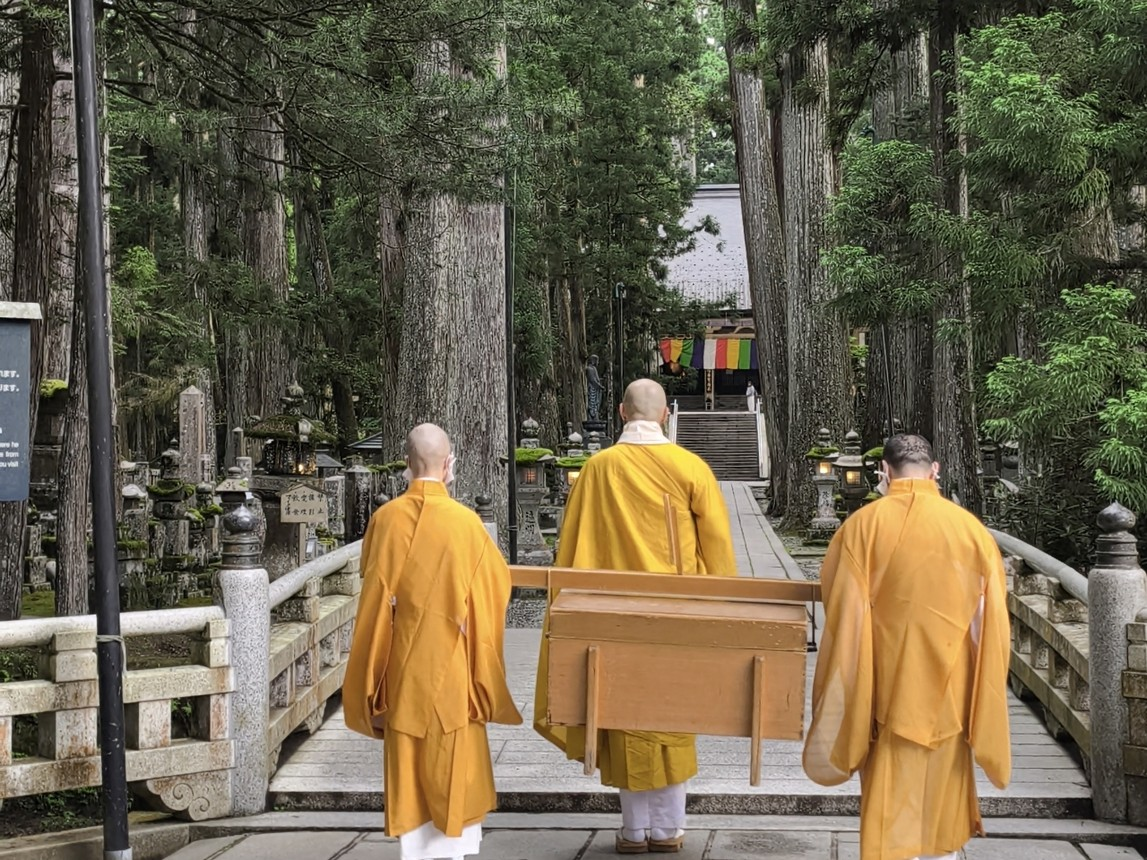
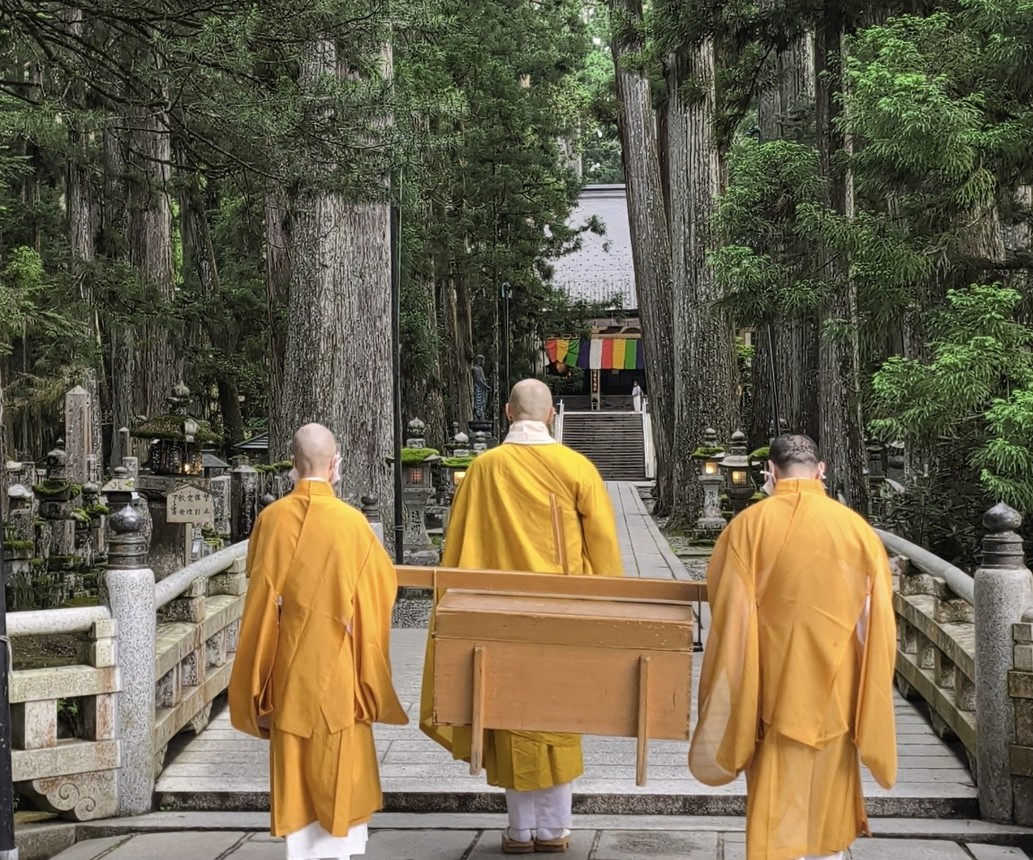
生身供の写真：左端の案内板を切り取る

diff --git a/index.html b/index.html
@@ -705,7 +705,7 @@ footer .f-pv a{text-decoration:underline;text-underline-offset:4px;}
   .interlude{display:block;min-height:0;padding:0;background:var(--ink);}
   .interlude::before{display:none;}
   .il-img{position:relative;inset:auto;}
-  .il-img img{height:auto;aspect-ratio:1014/1288;transform:none !important;}
+  .il-img img{height:auto;aspect-ratio:897/1288;transform:none !important;}
   .il-text{padding:32px var(--gut) 56px;}
   .il-v{font-size:26px;letter-spacing:.14em;text-shadow:none;}
   .il-s{text-shadow:none;}
@@ -963,7 +963,7 @@ main{position:relative;}
 
 <!-- 間奏：千二百年の祈り -->
 <section class="interlude on-dark" aria-label="千二百年の祈り">
-  <div class="il-img"><picture><source media="(max-width:899px)" srcset="images/photos/shojingu-tate.webp" width="1014" height="1288"><img src="images/photos/shojingu.webp" srcset="images/photos/shojingu-960.webp 960w, images/photos/shojingu.webp 1147w" sizes="100vw" alt="奥の院の御廟橋を、お大師さまへのお食事を担いでわたる僧侶たち" width="1147" height="860" loading="lazy" data-px></picture></div>
+  <div class="il-img"><picture><source media="(max-width:899px)" srcset="images/photos/shojingu-tate.webp" width="897" height="1288"><img src="images/photos/shojingu.webp" srcset="images/photos/shojingu-960.webp 960w, images/photos/shojingu.webp 1033w" sizes="100vw" alt="奥の院の御廟橋を、お大師さまへのお食事を担いでわたる僧侶たち" width="1033" height="860" loading="lazy" data-px></picture></div>
   <div class="il-text">
     <p class="il-v rv">千二百年、<br>祈りの絶えない山で。</p>
     <p class="il-s rv rv-d1">奥の院では、いまも毎日二度、<br class="sp-br">お大師さまへお食事が運ばれています。<br>本覚院は、その高野山の真ん中にあります。</p>

diff --git a/shukubo.html b/shukubo.html
@@ -1032,7 +1032,7 @@ footer .f-pv a{text-decoration:underline;text-underline-offset:4px;}
         </div>
       </article>
       <article class="moment">
-        <figure class="rv-img"><img src="images/photos/shojingu.webp" srcset="images/photos/shojingu-960.webp 960w, images/photos/shojingu.webp 1147w" sizes="(max-width: 899px) 100vw, 60vw" alt="奥の院の御廟橋を、お大師さまへのお食事を担いでわたる僧侶たち（生身供）" width="1147" height="860" loading="lazy"></figure>
+        <figure class="rv-img"><img src="images/photos/shojingu.webp" srcset="images/photos/shojingu-960.webp 960w, images/photos/shojingu.webp 1033w" sizes="(max-width: 899px) 100vw, 60vw" alt="奥の院の御廟橋を、お大師さまへのお食事を担いでわたる僧侶たち（生身供）" width="1033" height="860" loading="lazy"></figure>
         <div class="rv">
           <p class="m-time"><b>10:00</b><small>ご出立</small></p>
           <h3 class="m-title">奥の院へ</h3>

diff --git a/en.html b/en.html
@@ -1110,7 +1110,7 @@ footer .f-pv a{text-decoration:underline;text-underline-offset:4px;}
         </div>
       </article>
       <article class="moment">
-        <figure class="rv-img"><img src="images/photos/shojingu.webp" srcset="images/photos/shojingu-960.webp 960w, images/photos/shojingu.webp 1147w" sizes="(max-width: 899px) 100vw, 60vw" alt="Monks carrying the meal for Kōbō Daishi across the bridge at Okunoin (shōjingu)" width="1147" height="860" loading="lazy"></figure>
+        <figure class="rv-img"><img src="images/photos/shojingu.webp" srcset="images/photos/shojingu-960.webp 960w, images/photos/shojingu.webp 1033w" sizes="(max-width: 899px) 100vw, 60vw" alt="Monks carrying the meal for Kōbō Daishi across the bridge at Okunoin (shōjingu)" width="1033" height="860" loading="lazy"></figure>
         <div class="rv">
           <p class="m-time"><b>10:00 am</b><small>Check-out</small></p>
           <h3 class="m-title">On to Okunoin</h3>
